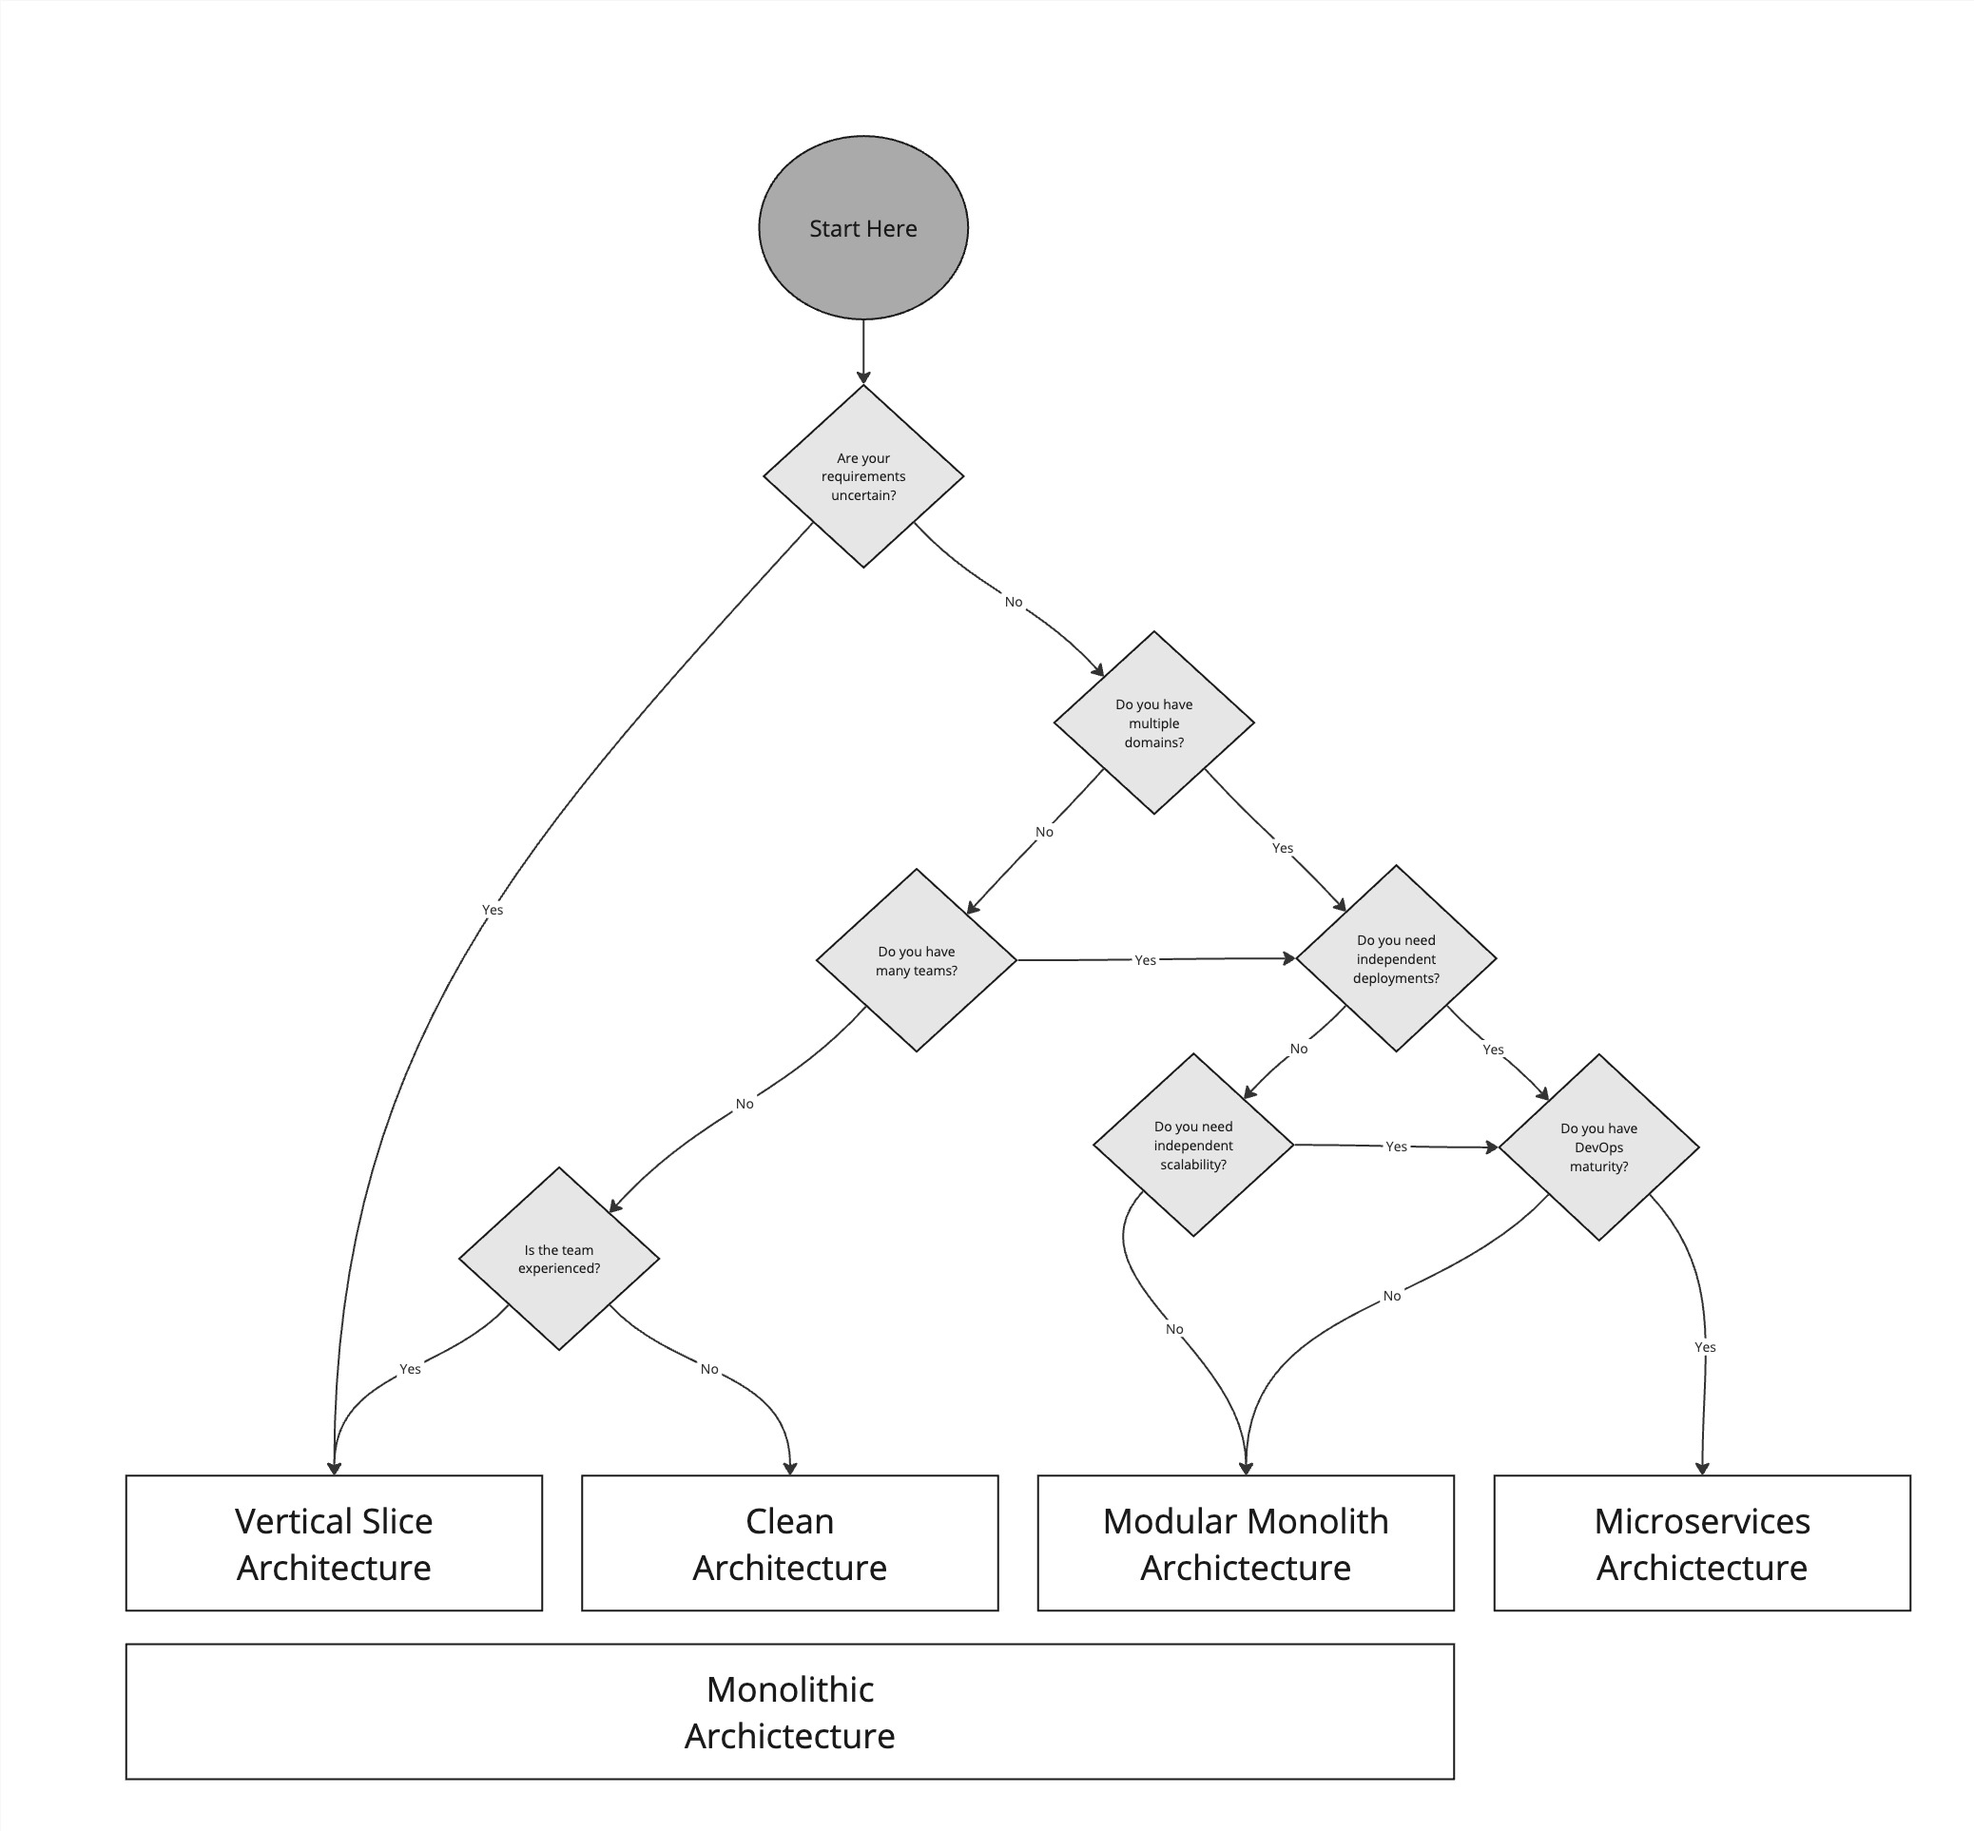
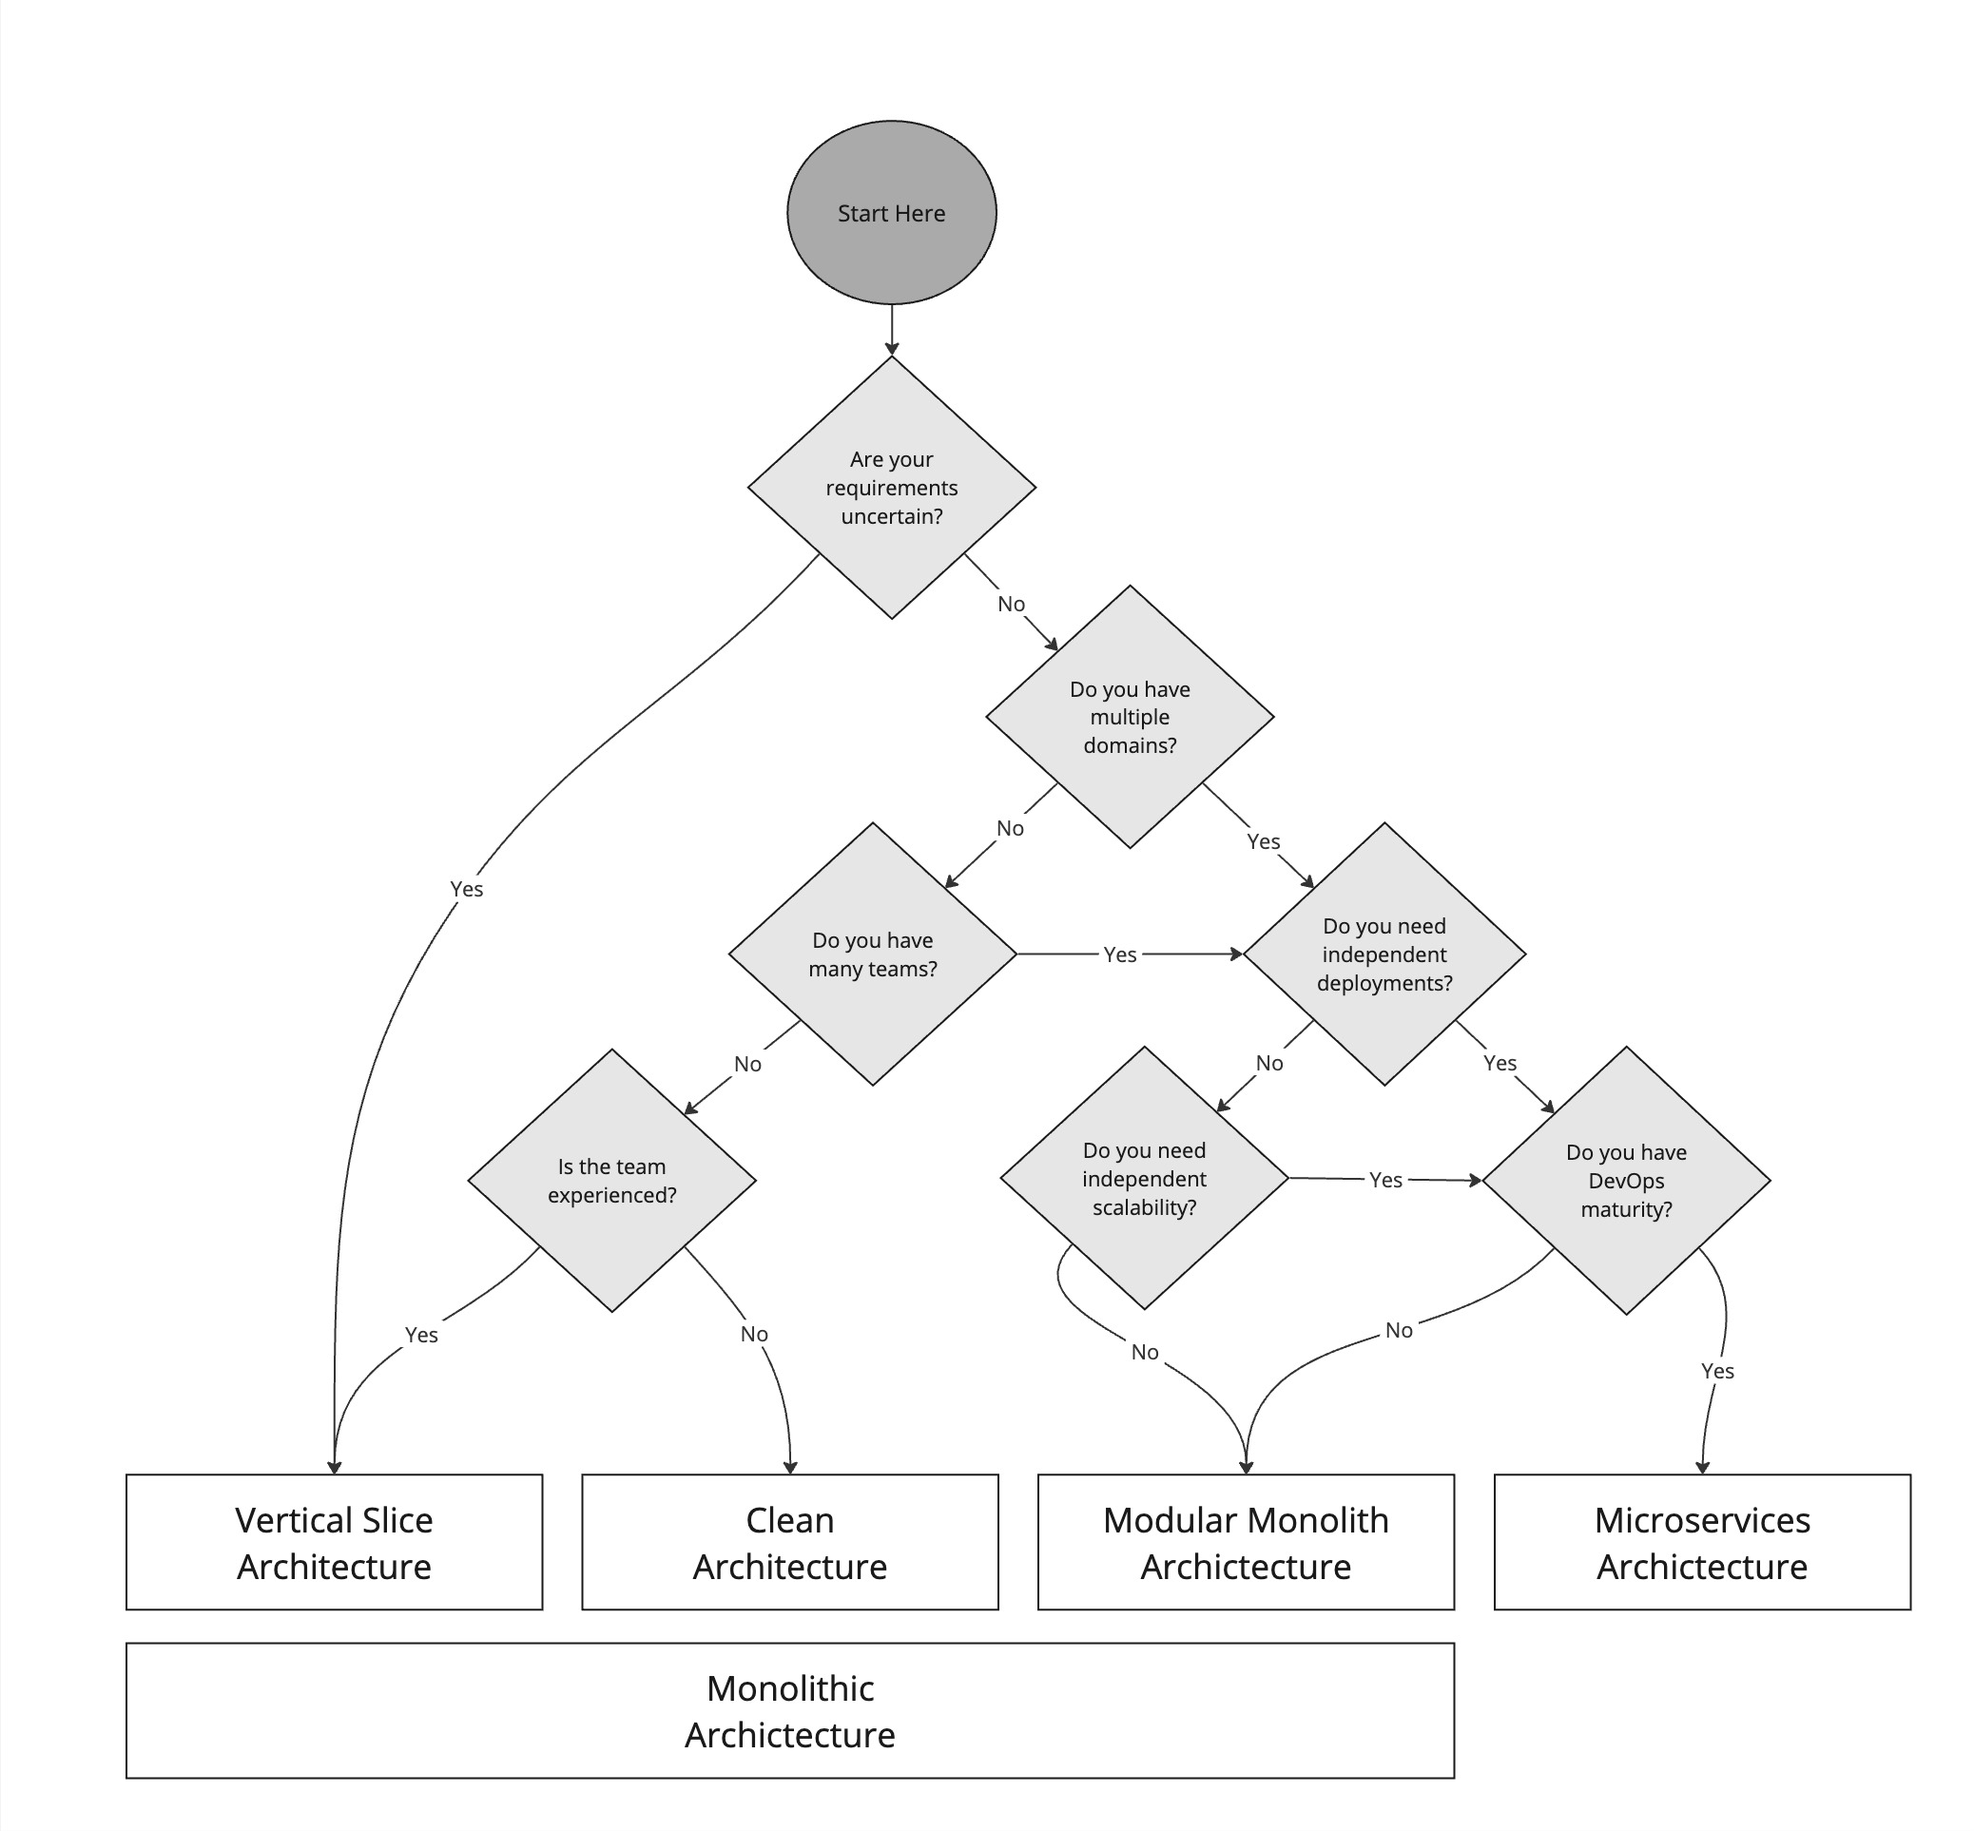
XS✔ ◾ update-decision-tree (#8766)
* Make diagram easier to read

* change link to 'Rules to Better Clean Architecture'

* Added VSA link

* Moved factors to after the diagram

* Moved microservices architecture last

* Added extra clarification about choices and mutual exclusiveness

diff --git a/rules/software-architecture-decision-tree/rule.md b/rules/software-architecture-decision-tree/rule.md
@@ -30,11 +30,13 @@ Choosing the right software architecture for your system is crucial for its succ
 
 Clean Architecture emphasizes separation of concerns, making your system easier to maintain and scale. This architecture is designed to keep the business logic independent of the frameworks and tools, which helps in achieving a decoupled and testable codebase.
 
-See more on [Rules to Better Architecture](/rules-to-better-clean-architecture).
+See more on [Rules to Better Clean Architecture](/rules-to-better-clean-architecture).
 
 ### Vertical Slice Architecture
 
 Vertical Slice Architecture structures your system around features rather than technical layers. Each feature is implemented end-to-end, including UI/API, business logic, and data access. This approach improves maintainability and reduces the risk of breaking changes.
+
+You can find our VSA template on [GitHub](https://github.com/SSWConsulting/SSW.VerticalSliceArchitecture)
 
 ### Modular Monolith
 
@@ -47,6 +49,16 @@ See more on [Rules to Better Modular Monoliths](/rules-to-better-modular-monolit
 Microservices architecture involves splitting the application into small, independently deployable services. Each service focuses on a specific business capability and can be developed, deployed, and scaled independently. This approach is beneficial for complex and large-scale applications with multiple teams working on different parts.
 
 See more on [Rules to Better Microservices](/rules-to-better-microservices).
+
+## Architecture Decision Tree
+
+![Architecture Decision Tree](architecture-decision-tree.jpg)
+
+It's important to keep in mind that these architectures are not mutually exclusive.
+
+A within a Modular Monolith Architecture, each module could be implemented using Clean Architecture or Vertical Slice Architecture. Similarly, a Microservices Architecture could use Clean Architecture or Vertical Slice Architecture within each service.
+
+Also, from a pragmatic point of view a combination of Modular Monolith and Microservices might provide the best of both worlds. The majority of the system could be implemented as a Modular Monolith, with a few key services implemented as Microservices to provide scalability and flexibility where needed.
 
 ## Factors to Consider
 
@@ -71,10 +83,6 @@ See more on [Rules to Better Microservices](/rules-to-better-microservices).
 * **Is the team experienced?**
   The complexity of Microservices can be challenging for less experienced teams. Vertical Slice Architecture although simple, has fewer guardrails when compared to Clean Architecture and can lead to a mess if not managed correctly.  This leads to recommending Clean Architecture for less experienced teams that need more structure.
 
-## Architecture Decision Tree
-
-![Architecture Decision Tree](architecture-decision-tree.jpg)
-
 ### Examples
 
 Here are some practical scenarios to illustrate the decision-making process:
@@ -91,18 +99,7 @@ Figure: Good example - These architectures offer flexibility and are easier to r
 :::
 
 ::: greybox
-**Scenario 2: Large Enterprise with Multiple Domains and Teams**
-
-You are developing a large-scale application with multiple business domains and have several teams working in parallel.
-
-**Choice:** Microservices.
-:::
-::: good
-Figure: Good example - Microservices allow independent development, deployment, and scaling, which suits large and complex applications
-:::
-
-::: greybox
-**Scenario 3: Medium-sized Business with Limited DevOps Maturity**
+**Scenario 2: Medium-sized Business with Limited DevOps Maturity**
 
 You have a mid-sized team, and your organization is still developing its DevOps practices.
 
@@ -110,6 +107,17 @@ You have a mid-sized team, and your organization is still developing its DevOps 
 :::
 ::: good
 Figure: Good example - A Modular Monolith provides some modularity benefits without the full complexity of Microservices, making it easier to manage with limited DevOps capabilities
+:::
+
+::: greybox
+**Scenario 3: Large Enterprise with Multiple Domains and Teams**
+
+You are developing a large-scale application with multiple business domains and have several teams working in parallel.
+
+**Choice:** Microservices.
+:::
+::: good
+Figure: Good example - Microservices allow independent development, deployment, and scaling, which suits large and complex applications
 :::
 
 By carefully considering these factors and understanding the strengths and limitations of each architectural style, you can choose the best architecture for your system, ensuring a balance between flexibility, scalability, and maintainability.
